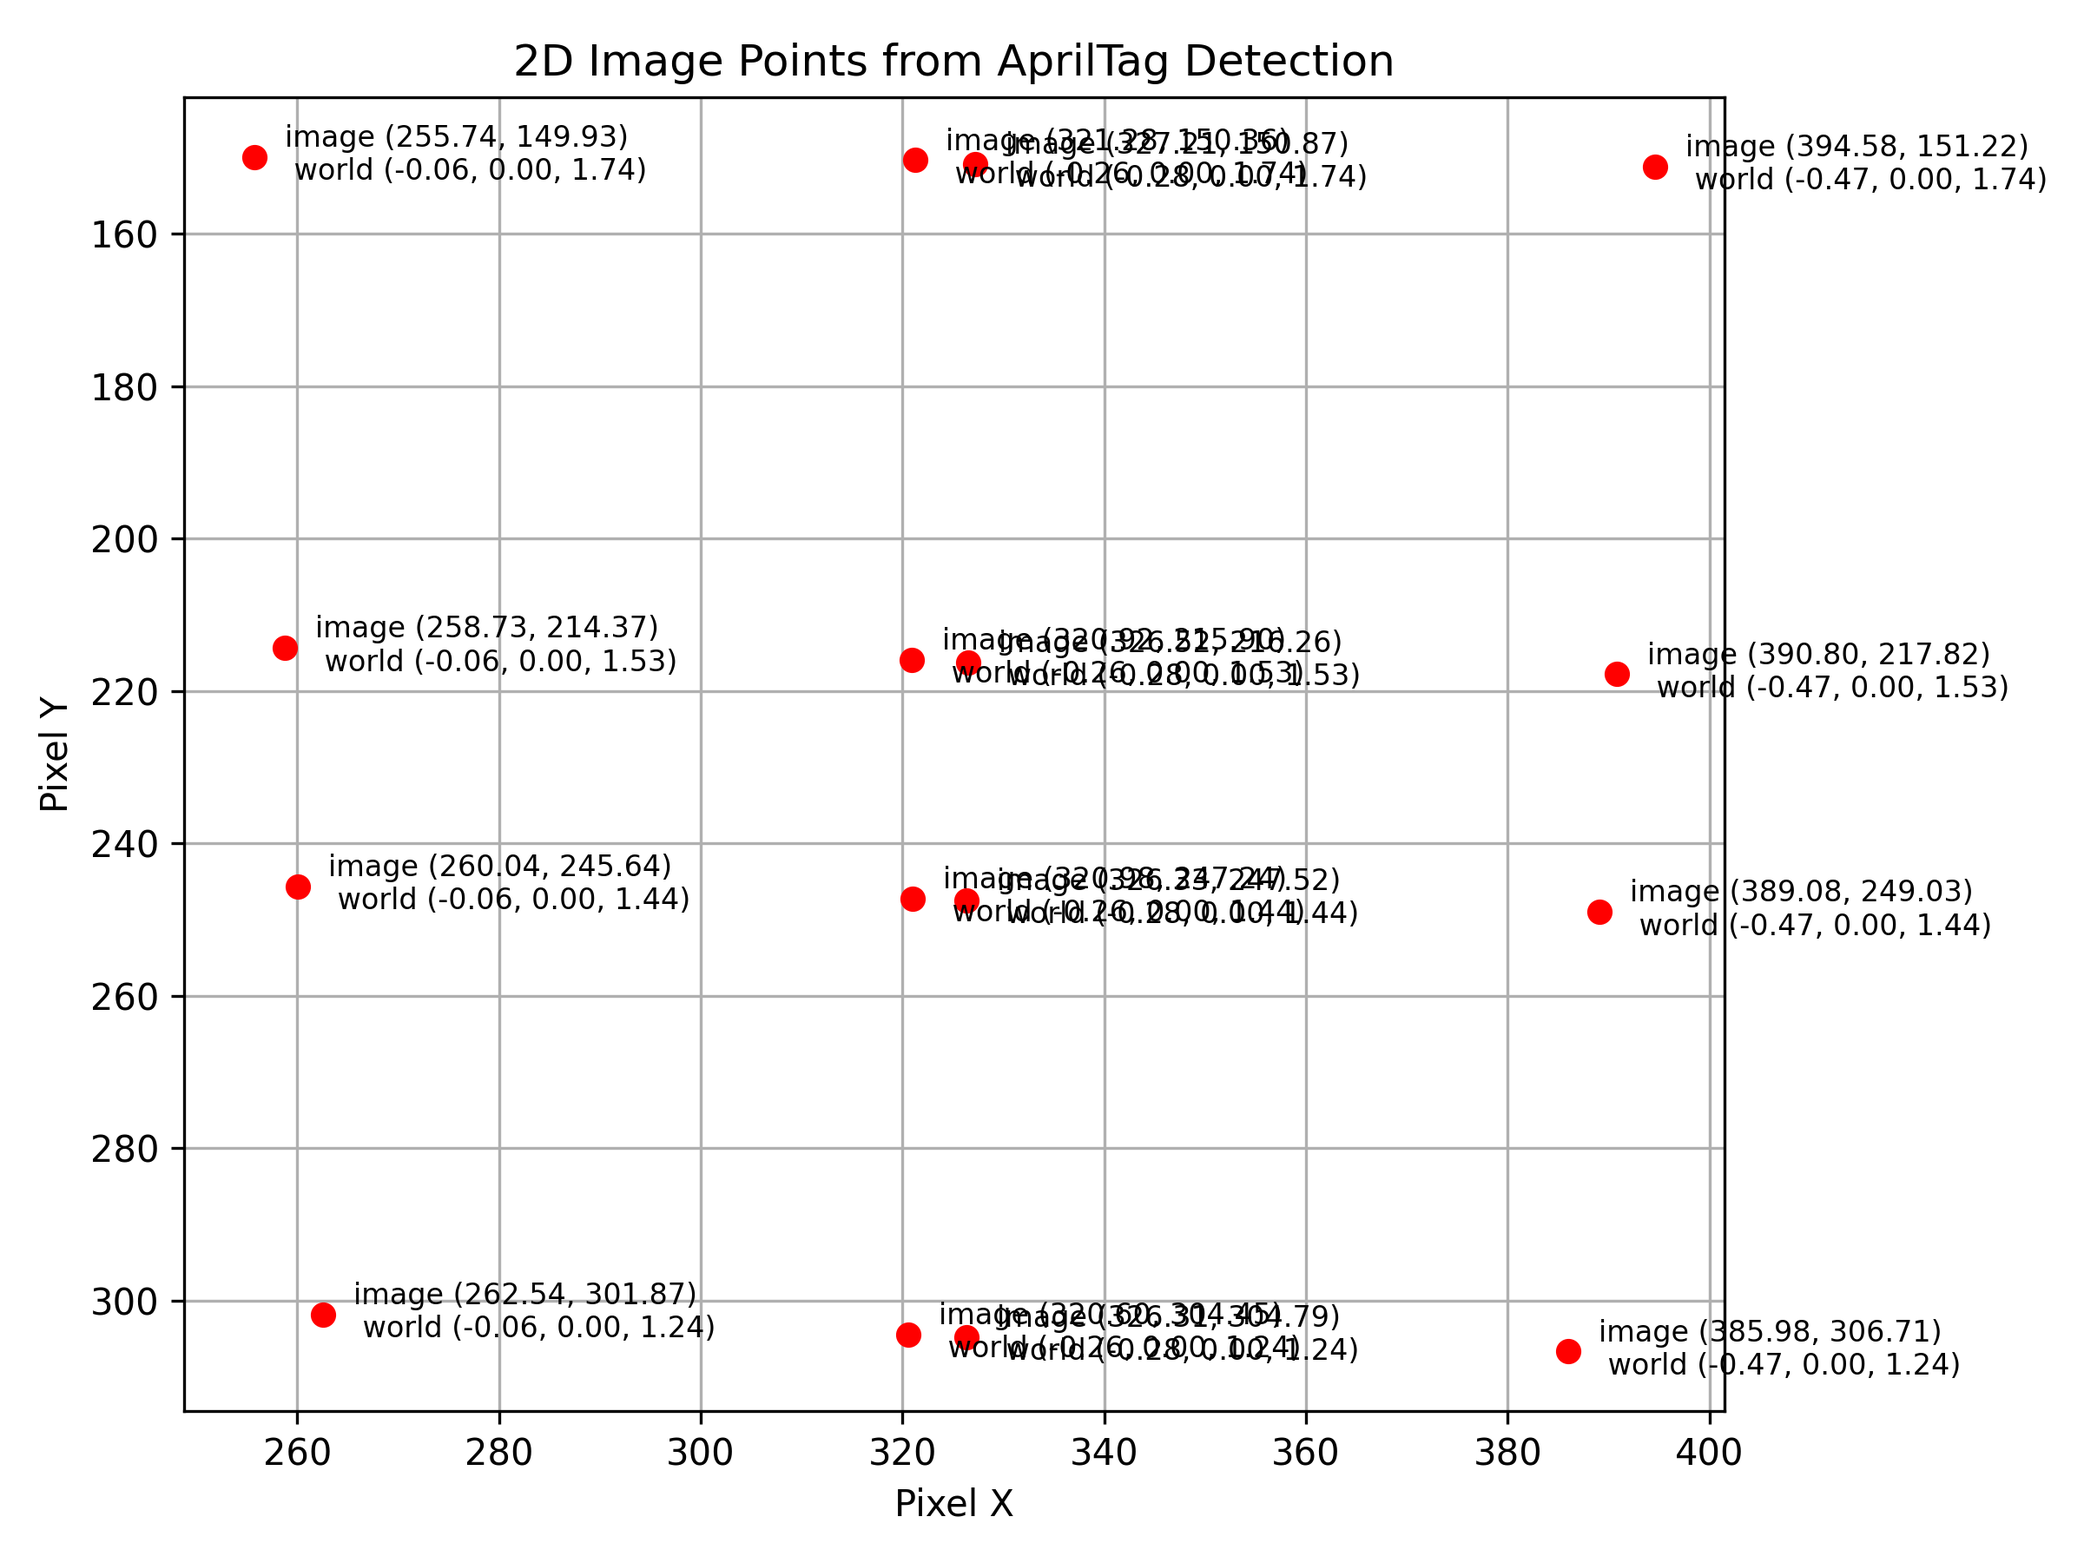
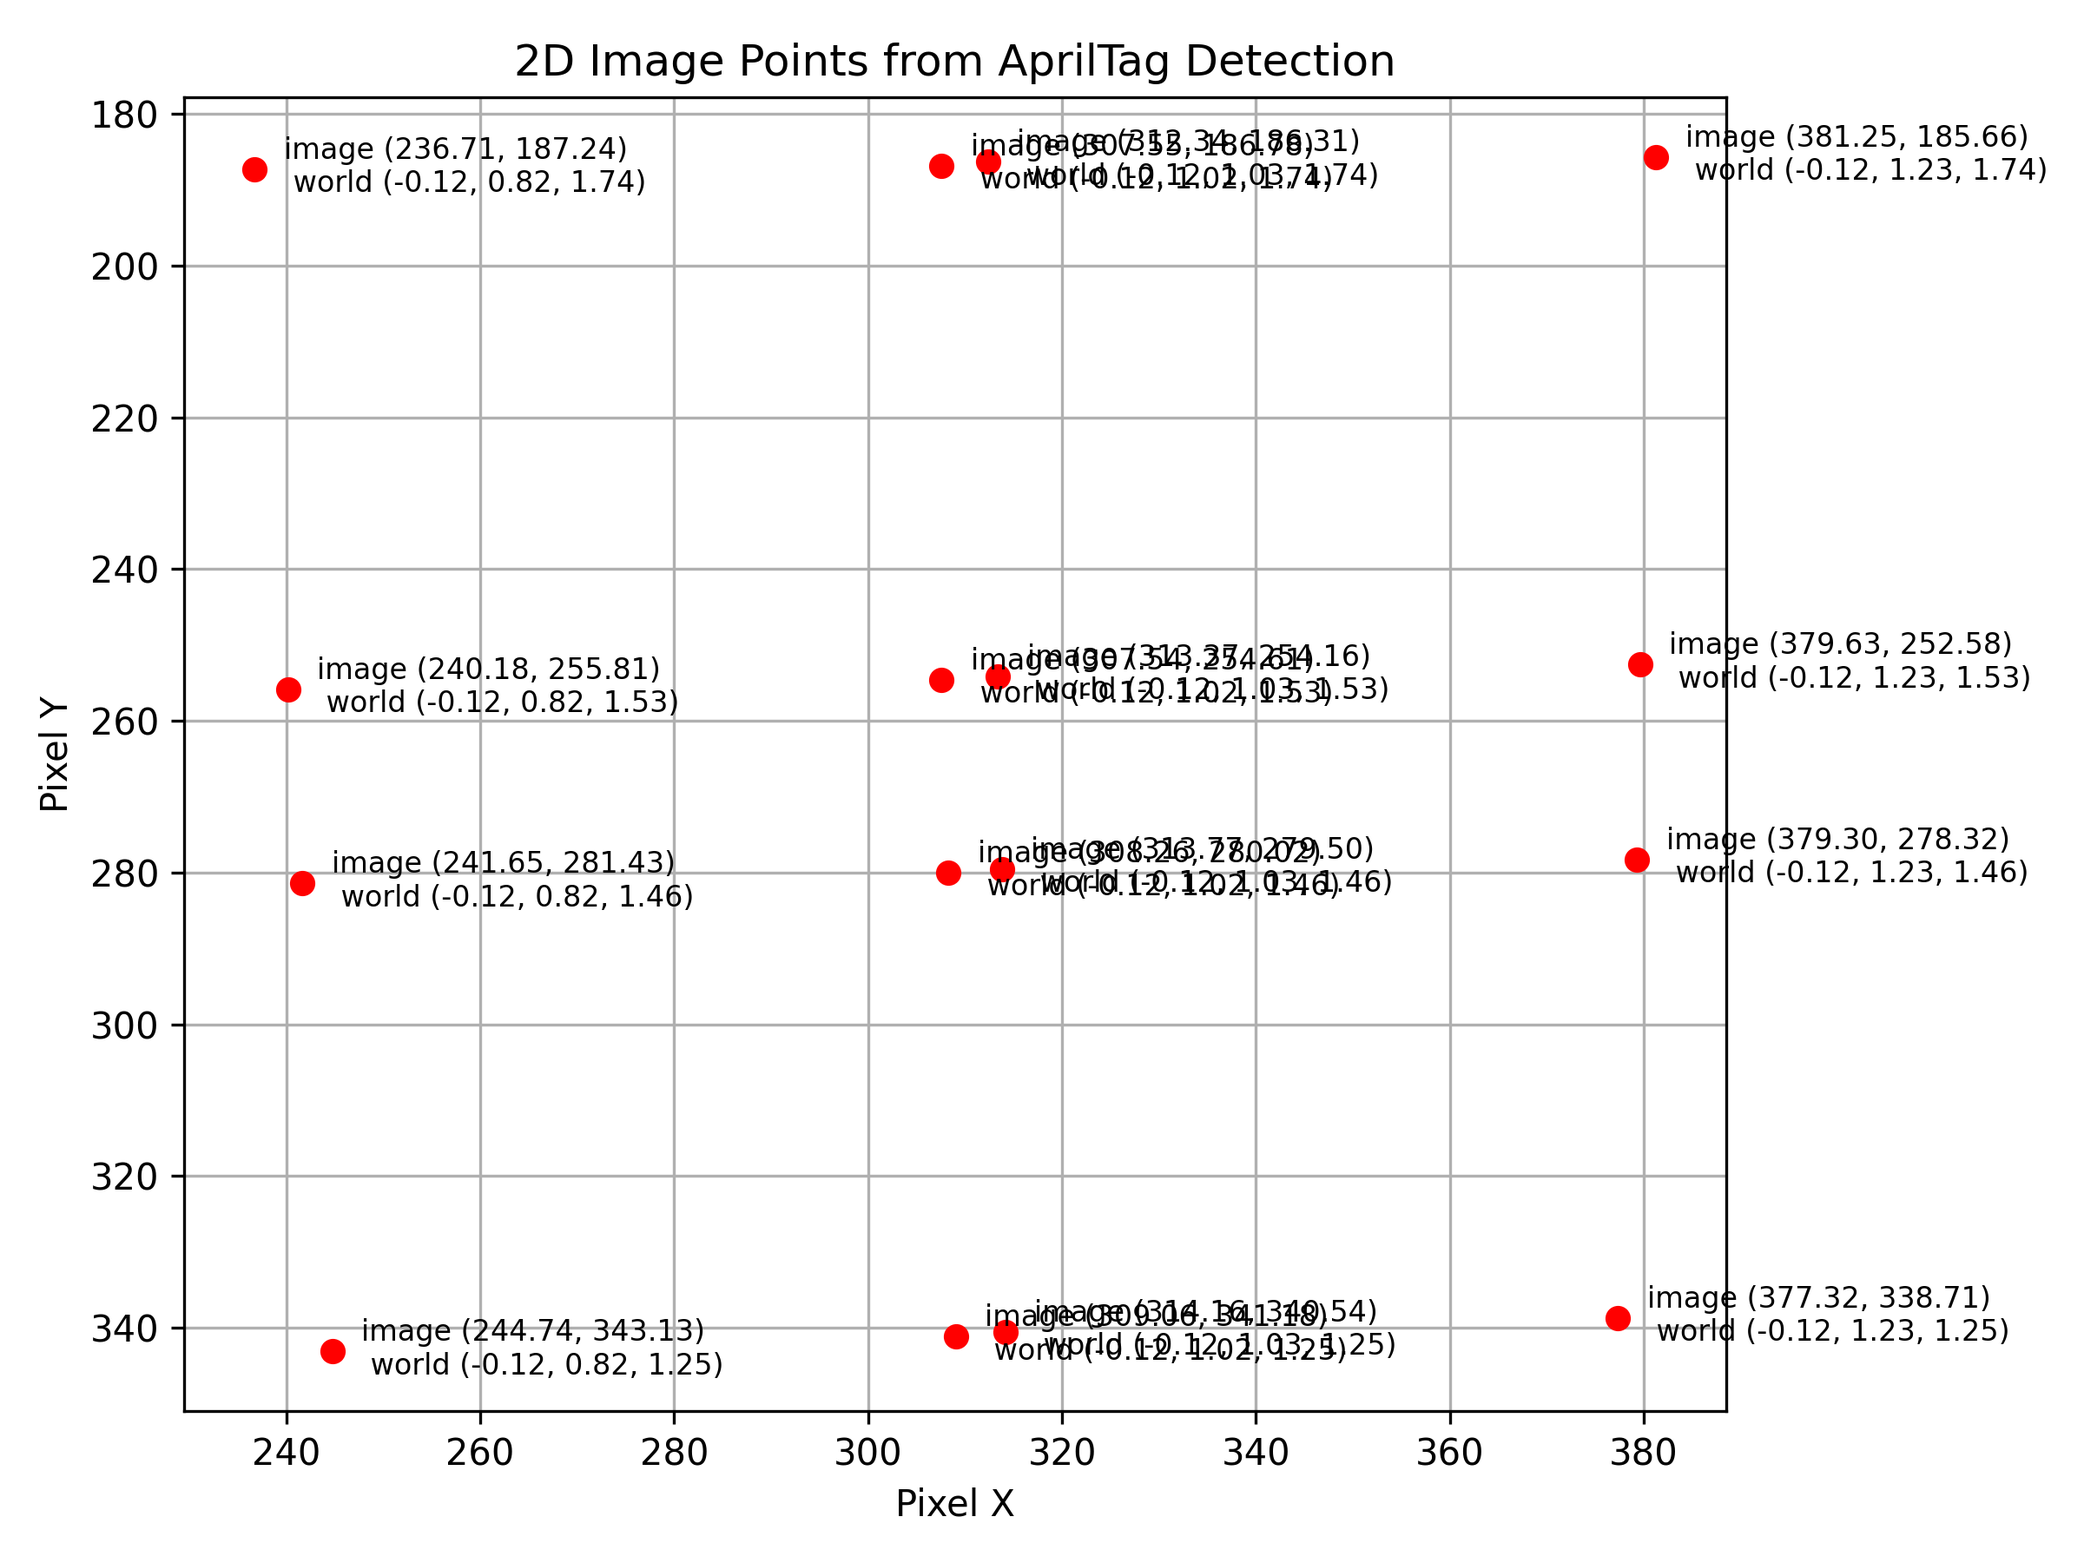
Dissapointment

diff --git a/post/utils/apriltag.py b/post/utils/apriltag.py
@@ -213,13 +213,6 @@ def extract_apriltag_pose(slam_data, infra1_raw_frames, Transforms, in_kalibr, i
     T_tag_to_world[:3, 3] = t_world_to_tag_in_world
     T_tag_to_world[:3,:3] = R_tag_to_world
 
-    # Going to try hard coding for detection 2
-    # Doesn't fix anything
-    # t_tag_to_world_in_tag = np.array([-1.13, 1.635, -0.1175])
-    # T_world_to_tag = np.eye(4)
-    # T_world_to_tag[:3,:3] = mes[:3,:3]
-    # T_world_to_tag[:3, 3] = t_tag_to_world_in_tag
-
     T_world_to_tag = np.linalg.inv(T_tag_to_world)
     Transforms.T_world_to_tag = T_world_to_tag
 
@@ -230,11 +223,6 @@ def extract_apriltag_pose(slam_data, infra1_raw_frames, Transforms, in_kalibr, i
     Transforms.T_world_to_cam1_detect = T_tag_to_cam1 @ T_world_to_tag
     T_world_to_sorigin = T_sbody_to_sorigin @ Transforms.T_world_to_cam1_detect # Still something wrong with htis....
     Transforms.T_world_to_sorigin = T_world_to_sorigin
-
-    # Transforms.T_world_to_cam1_detect = np.linalg.inv(T_cam1_to_tag) @ T_world_to_tag
-    # T_world_to_sorigin = T_sbody_to_sorigin @ Transforms.T_world_to_cam1_detect # Still something wrong with htis....
-    # Transforms.T_world_to_sorigin = T_world_to_sorigin
-
 
     Transforms.T_imu_to_cam1 = np.array(calibration['cam0']['T_cam_imu'])
     Transforms.T_imu_to_sbody = Transforms.T_imu_to_cam1
@@ -352,18 +340,20 @@ def extract_apriltag_pose_PnP(slam_data, infra1_raw_frames, Transforms, in_kalib
     for detection in best_match[0]:
 
         # This should be tag -> world frame, but we read world to tag
-        H_world_to_tag = np.array(apriltag_world_locations[str(detection.tag_id)])
-        # H_tag_to_world = np.linalg.inv(H_world_to_tag) 
-        # # You'd think you'd have to invert it? But I guess that's not the case...
-        # This gives the right matrix multiplication results in REPL?
-        # maybe just ask Jose
+
+        mes = np.array(apriltag_world_locations[str(detection.tag_id)])
+        R_tag_to_world = np.linalg.inv(mes[:3,:3])
+        T_tag_to_world = np.eye(4)
+        T_tag_to_world[:3, :3] = R_tag_to_world
+        T_tag_to_world[:3, 3] = mes[:3, 3] # t_world_to_tag_in_world
 
         print(str(detection.tag_id))
-        print(H_world_to_tag)
 
         for corner_tagframe, corner_imageframe in zip(corners_in_tag_frame, detection.corners):
-            
-            worldPoints.append(  (H_world_to_tag @ np.hstack([corner_tagframe, 1]))[:3]  ) # Append and then truncate a 1 from the vector
+
+            corner_world_frame = (T_tag_to_world @ np.hstack([corner_tagframe, 1]))[:3]
+            print(f"{corner_tagframe=} -> {corner_world_frame}")
+            worldPoints.append(  corner_world_frame  ) # Append and then truncate a 1 from the vector
             imagePoints.append(corner_imageframe)
 
     
@@ -415,24 +405,10 @@ def extract_apriltag_pose_PnP(slam_data, infra1_raw_frames, Transforms, in_kalib
     # plt.savefig("./april_tag_projection_plot.png", dpi=300)
     # plt.show()
 
-    H_cam1_to_tag = np.eye(4)
-    detection = best_match[0][0] # Pose of tag in camera frame
-    H_cam1_to_tag[:3, :3] = detection.pose_R
-    H_cam1_to_tag[:3, 3] = detection.pose_t.flatten()
-    DETECTED_ID = str(detection.tag_id)
-    print(f" Detected tag_id {DETECTED_ID}")
-    H_world_to_tag = np.array(apriltag_world_locations[DETECTED_ID]) # Get the world frame location of the center of the tag
-    # H_world_to_cam1 = inv(H_cam1_to_tag) @ H_world_to_tag
-    H_world_to_cam1_prior = H_world_to_tag @ np.linalg.inv(H_cam1_to_tag) # Use the AprilTag detection as a prior for Levenberg Marquardt in cv2.solvePnP
+    success, R_, t = cv2.solvePnP(worldPoints, imagePoints, CAM1_INTRINSICS_MAT, CAM1_DISTORTION_VEC)
 
-    r_prior = np.ascontiguousarray(H_world_to_cam1_prior[:3, :3], dtype=np.float64)
-    t_prior = np.ascontiguousarray(H_world_to_cam1_prior[:3, 3].reshape(3, 1), dtype=np.float64)
-    rprior_rodriguez, _ = cv2.Rodrigues(r_prior)
-    success, r_world_to_cam1, t_world_to_cam1 = cv2.solvePnP(worldPoints, imagePoints, 
-                                                             CAM1_INTRINSICS_MAT, CAM1_DISTORTION_VEC,
-                                                             rvec=rprior_rodriguez,
-                                                             tvec=t_prior,
-                                                             flags=cv2.SOLVEPNP_ITERATIVE)
+    # success, r_world_to_cam1, t_cam1_to_world = cv2.solvePnP(worldPoints, imagePoints, 
+    #                                                         CAM1_INTRINSICS_MAT, CAM1_DISTORTION_VEC)
     print("SolvePnP success? "+str(success))
 
     # I think this might actually be t_cam1_to_world lol
@@ -441,43 +417,33 @@ def extract_apriltag_pose_PnP(slam_data, infra1_raw_frames, Transforms, in_kalib
     # I set my object frame to be the world frame, by first transforming all object points to the world frame.
 
  
-    print(r_world_to_cam1)
-    print(t_world_to_cam1)
-    R, _ = cv2.Rodrigues(r_world_to_cam1)
-    H_world_to_cam1 = np.eye(4)
-    H_world_to_cam1[:3,:3] = R.T # Source: https://github.com/elenagiraldo3/april_tags_autolocalization/blob/main/detect_apriltag.py#L40
-    H_world_to_cam1[:3,3] = np.matmul(-R.T, t_world_to_cam1.flatten()).reshape(3)
-    # H_world_to_cam1[:3,3] = t_world_to_cam1.flatten()
+    # print(r_world_to_cam1)
+    # print(t_cam1_to_world)
 
-    pose_slam = slam_quat_to_HTM(best_match[2])
-    H_sorigin_to_sbody = pose_slam
+    R, _ = cv2.Rodrigues(R_)
+    # T_world_to_cam1 = np.eye(4)
+    # T_world_to_cam1[:3, :3] = r_world_to_cam1
+    # T_world_to_cam1[:3, 3] = t_cam1_to_world.flatten()
 
 
-    H_cam1_to_sbody = np.linalg.inv(np.array(calibration['cam0']['T_cam_imu'])) # Calibration gives us transform from IMU to camera
+    # This is the same as just inverting the transform returned by extract PnP
+    T_world_to_cam1 = np.eye(4)
+    T_world_to_cam1[:3,:3] = R # Source: https://github.com/elenagiraldo3/april_tags_autolocalization/blob/main/detect_apriltag.py#L40
+    T_world_to_cam1[:3,3] = (-R.T @ t).reshape(3)
 
+    T_sbody_to_sorigin = slam_quat_to_HTM(best_match[2])
 
-    # H_world_to_sorigin = np.linalg.inv(H_sorigin_to_sbody) @ H_world_to_cam1
-    # Cam1 is slam body.
+    Transforms.T_world_to_cam1_detect = T_world_to_cam1
+    T_world_to_sorigin = T_sbody_to_sorigin @ Transforms.T_world_to_cam1_detect # Still something wrong with htis....
+    Transforms.T_world_to_sorigin = T_world_to_sorigin
 
-    H_world_to_sorigin = H_world_to_cam1 @ np.linalg.inv(H_sorigin_to_sbody)
+    Transforms.T_imu_to_cam1 = np.array(calibration['cam0']['T_cam_imu'])
+    Transforms.T_imu_to_sbody = Transforms.T_imu_to_cam1
 
-    Transforms.T_slam_world = H_world_to_sorigin
+    Transforms.T_slam_world = T_world_to_sorigin 
+    # Transforms uses older notation T_slam_world, transform from world to slam origin, i.e. poes of slam origin in world frame
 
-
-    world_frame_dbg = SimpleNamespace()
-    origin = np.eye(4)
-    world_frame_dbg.origin = origin
-    world_frame_dbg.T_world_to_slam = H_world_to_sorigin
-    world_frame_dbg.T_world_to_cam1 = H_world_to_cam1
-    world_frame_dbg.T_world_to_cam1_prior = H_world_to_cam1_prior
-
-    world_frame_dbg.T_world_to_tag1 = np.array(apriltag_world_locations["1"])
-    world_frame_dbg.T_world_to_tag2 = np.array(apriltag_world_locations["2"])
-    world_frame_dbg.T_world_to_tag3 = np.array(apriltag_world_locations["3"])
-    world_frame_dbg.T_world_to_tag4 = np.array(apriltag_world_locations["4"])
     print(Transforms)
-
-    with open(f'/home/admi3ev/ws/post/debug/world_frame_dbg.json', 'w') as fs: json.dump(vars(world_frame_dbg),fs, cls=NumpyEncoder, indent=1)
 
     return Transforms
 

diff --git a/post/get_frames.py b/post/get_frames.py
@@ -1,0 +1,169 @@
+
+from pathlib import Path
+import pkgutil
+import importlib
+import inspect
+import os
+import json
+import csv
+import yaml
+import argparse
+
+import cv2
+import numpy as np
+from scipy.spatial.transform import Rotation as R
+from scipy.spatial.transform import Slerp
+from scipy.linalg import orthogonal_procrustes
+from types import SimpleNamespace
+
+import shutil
+import math
+import copy
+
+from utils.load_rostypes import *
+from utils.ros_msg_handlers import *
+from utils.apriltag import *
+from utils.math_utils import *
+
+from scipy.optimize import minimize
+
+
+import matplotlib.pyplot as plt
+from mpl_toolkits.mplot3d import Axes3D  # noqa: F401
+
+
+
+# Example usage:
+# python3 post_process.py -t stereoi_sq -c cam_target_daslab -a pilot3/anchors.json -p pilot3/apriltags.json -i 10
+
+
+parser = argparse.ArgumentParser(description="Stream collector")
+parser.add_argument("--trial_name" , "-t", type=str)
+parser.add_argument("--calibration_file", "-c", type=str)
+parser.add_argument("--crop_start", type=float) # Pass the ROS timestamp that you want to crop away all data before. Data will still be used to compute transforms.
+parser.add_argument("--alias", type=str) # Alias for a dataset, ex. if you want to keep a cropped and uncropped version of a dataset
+parser.add_argument("--anchors_file", "-a", type=str)
+parser.add_argument("--apriltags_file", "-p", type=str)
+parser.add_argument("--interpolate_slam", "-i", default=0, type=int) # -i controls how many interpolated poses you want between each pair of SLAM poses.
+parser.add_argument("--synthetic_uwb_frequency", default=0, type=int) # interpolate GT to this frequency, so that gtsam_test can use synthetic ranges.
+parser.add_argument("--synthetic_slam_frequency", default=0, type=int) #  filter GT to this frequency, must be < 20 should really be named 'lower_slam_frequency'
+parser.add_argument("--real_uwb_orientation_support", default=True, type=bool)
+parser.add_argument("--override_april_start", type=str )
+# With real UWB ranges, but no compass, attach a pose to each uwb measurement using interpolation.
+# Setting this flag interpolates N=100 poses between each SLAM pose, and maps them onto the temporally closest UWB range.
+
+
+args = parser.parse_args()
+
+outpath = f'./out/{args.trial_name}_post'
+if args.alias is not None: outpath = f'./out/{args.alias}_post'
+
+out_infra1 = f'{outpath}/infra1'
+out_infra2 = f'{outpath}/infra2'
+out_ml = f'{outpath}/ml'
+out_synthetic = outpath+"/synthetic"
+
+os.makedirs(outpath, exist_ok=True)
+os.makedirs(out_infra1, exist_ok=True)
+os.makedirs(out_infra2, exist_ok=True)
+os.makedirs(out_ml, exist_ok=True)
+os.makedirs(out_synthetic, exist_ok=True)
+
+in_slam = f'../orbslam/out/{args.trial_name}_cam_traj.txt'
+in_slam_kf = f'../orbslam/out/{args.trial_name}_kf_traj.txt'
+in_kalibr = f"../kalibr/camimu_out/{args.calibration_file}-camchain-imucam.yaml"
+in_apriltags = f"../world/{args.apriltags_file}"
+in_anchors = f"../world/{args.anchors_file}"
+
+bagpath = Path(f'../collect/ros2/{args.trial_name}')
+
+# Need to maintain another array that we can buffer data to before dumping one sensor per csv
+topic_to_processing = {
+                '/uwb_ranges': (proc_range, []),
+                  '/camera/camera/imu': (proc_imu, []),
+                  '/camera/camera/infra1/image_rect_raw': (proc_infra1_frame, []),
+                  '/camera/camera/infra2/image_rect_raw': (proc_infra2_frame, []),
+}
+
+all_data = []
+dataset_topics = [ k for k,v in topic_to_processing.items()]
+gt_standalone = []
+
+
+rostypes = load_rostypes()
+print(rostypes)
+
+uwb_message_count = 0
+processed_uwb_message = 0
+# Create reader instance and open for reading.
+with AnyReader([bagpath], default_typestore=rostypes) as reader:
+    connections = [x for x in reader.connections if x.topic in dataset_topics]
+    for connection, timestamp, rawdata in reader.messages(connections=connections):
+
+        try:
+            msg = reader.deserialize(rawdata, connection.msgtype)
+            proc, arr_ref = topic_to_processing[connection.topic]
+            proc(msg, arr_ref)
+            if connection.msgtype == "beluga_messages/msg/BelugaRanges": 
+                processed_uwb_message +=1
+                uwb_message_count += 1
+
+        except Exception:
+            print( "skipped UWB message")
+            if connection.msgtype == "beluga_messages/msg/BelugaRanges": 
+                uwb_message_count +=1
+            continue  # optionally log here
+
+# Processors functions have now buffered their individual topics into arr_ref
+# This is useful for writing the same datastream to multiple files.
+# Then, lastly, we can create all.json using the buffered measurements.
+
+
+
+# Filter for messages within bag timestamp range.
+START = reader.start_time * 1e-9
+END = reader.end_time * 1e-9
+print(f"ROS duration {START} - {END}")
+print(f"Data start {START} cropped to {args.crop_start}")
+
+def filtt(arr): # For filtering a json output
+    if args.crop_start is not None: arr = list(filter(lambda x: (args.crop_start <= x["t"]), arr)) # First filter by crop
+    return list(filter(lambda x: (START <= x["t"] <= END), arr)) # Then filter by ros timestamps
+def filtt2(arr): # For filtering a CSV output
+    if args.crop_start is not None: arr = list(filter(lambda x: (args.crop_start <= x[0]), arr))
+    return list(filter(lambda x: (START <= x[0] <= END), arr))
+
+
+### Write UWB data to its own csv file, and to all_data
+uwb_csv = []
+uwb_range_distribution = []
+for j in topic_to_processing['/uwb_ranges'][1]:
+    csv_row = []
+    for k, v in j.items(): csv_row.append(v) # This should iterate in the order of how keys are originally defined in the json
+    uwb_csv.append(csv_row)
+    all_data.append(j)
+    uwb_range_distribution.append(j['range'])
+
+with open(f'{out_ml}/uwb_data.csv', 'w') as fs: csv.writer(fs).writerows(filtt2(uwb_csv))
+
+### Write IMU data to its own csv file, and to all_data
+imu_csv = []
+for j in topic_to_processing['/camera/camera/imu'][1]:
+    csv_row = []
+    for k, v in j.items(): csv_row.append(v)
+    imu_csv.append(csv_row)
+    all_data.append(j)
+with open(f'{out_ml}/imu_data.csv', 'w') as fs: csv.writer(fs).writerows(filtt2(imu_csv))
+
+### Write Infra1 frames to output directory, and provide references in all_data
+for j in topic_to_processing['/camera/camera/infra1/image_rect_raw'][1]:
+    cv2.imwrite(out_infra1+"/"+j["name"], j["raw"])
+    j_no_image = { k:v for k,v in j.items() if not (k == "raw") }
+    all_data.append(j_no_image)
+
+### Write Infra2 frames to output directory, and provide references in all_data
+for j in topic_to_processing['/camera/camera/infra2/image_rect_raw'][1]:
+    cv2.imwrite(out_infra2+"/"+j["name"], j["raw"])
+    j_no_image = { k:v for k,v in j.items() if not (k == "raw") }
+    all_data.append(j_no_image)
+
